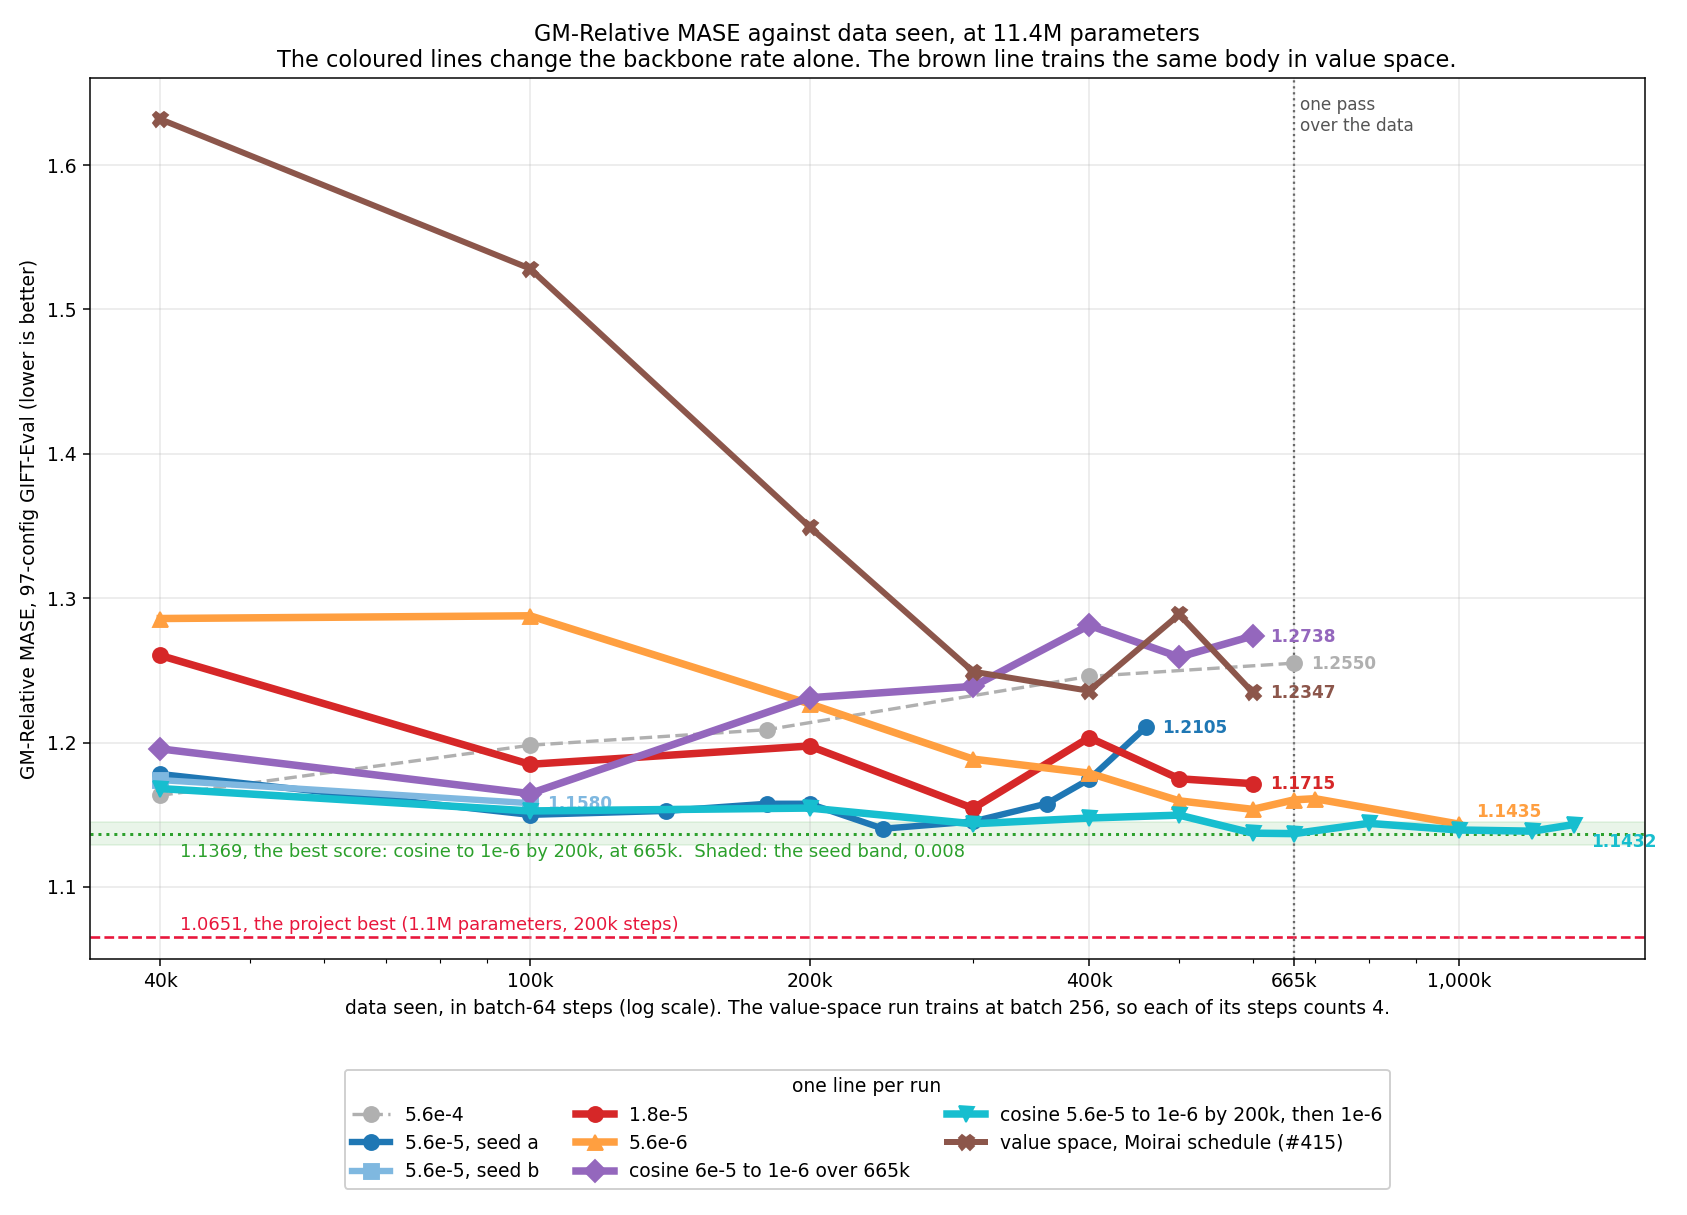
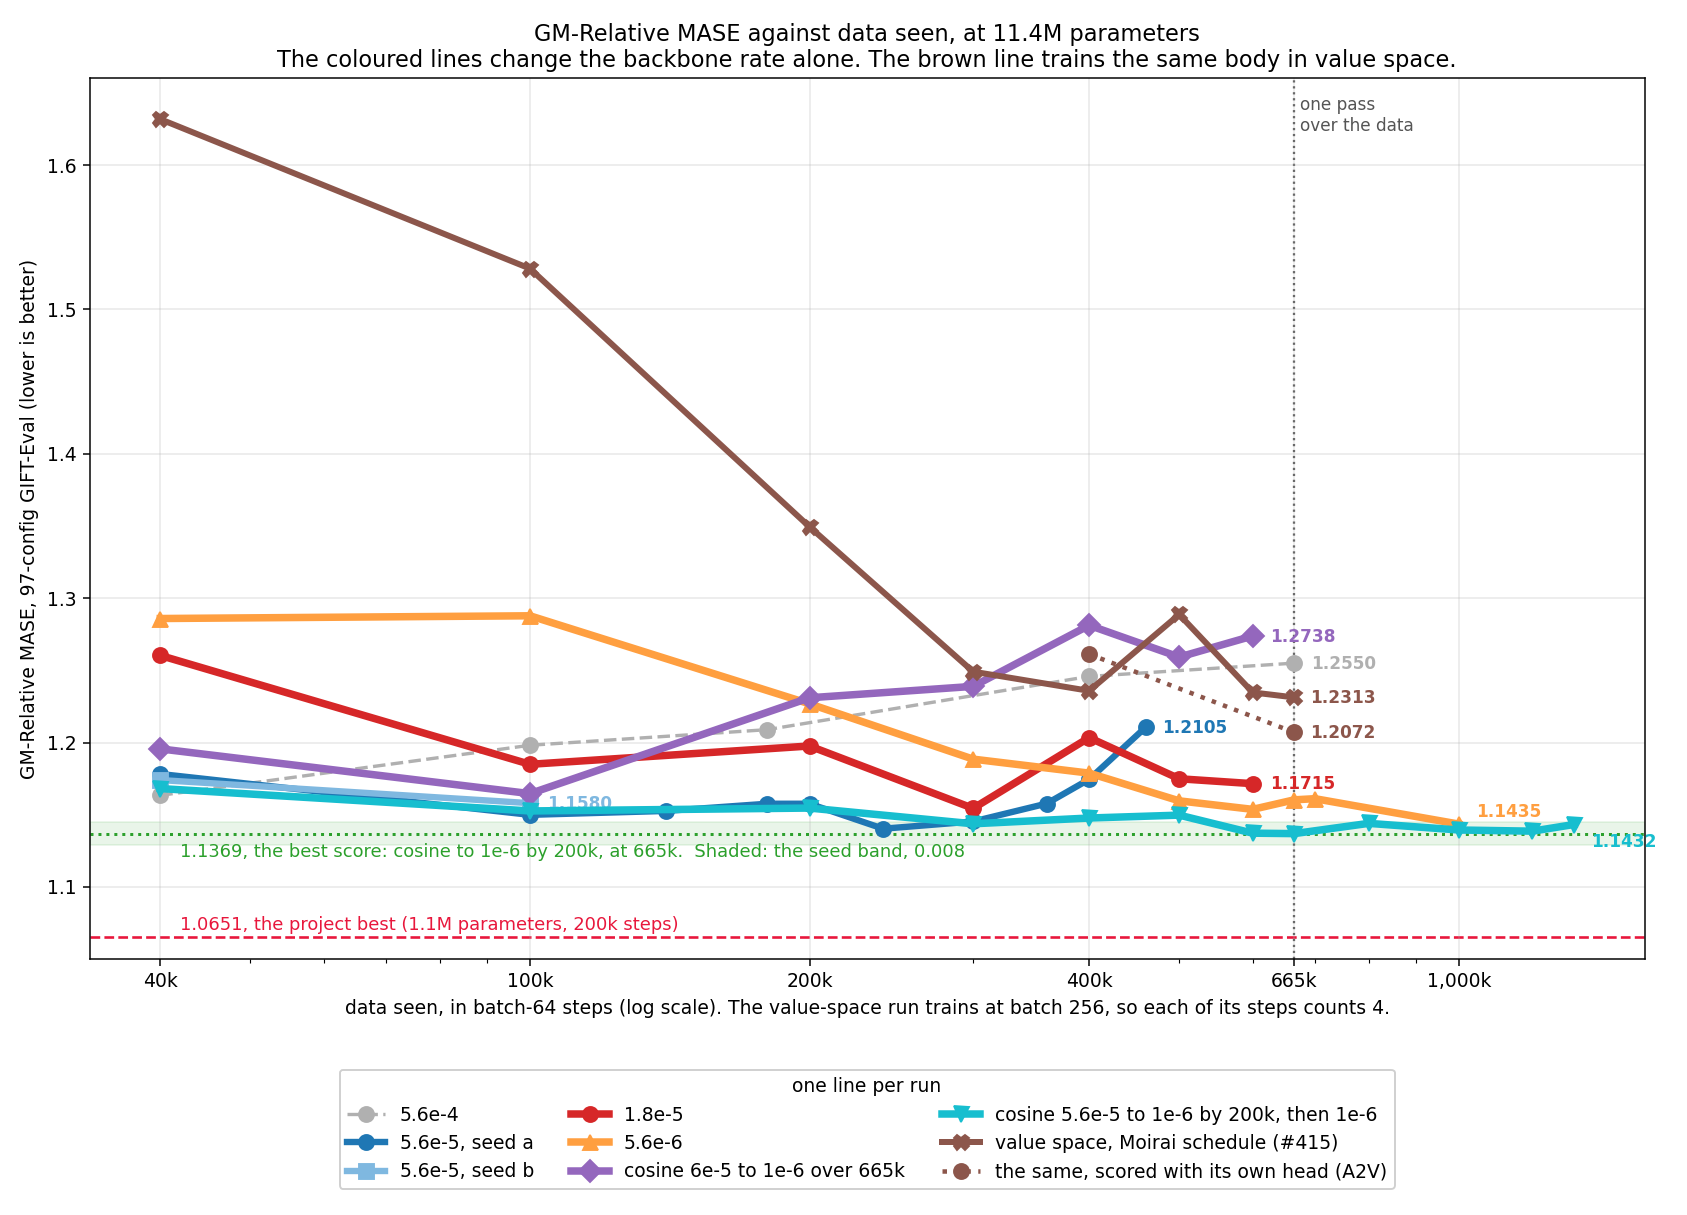
exp(#415): the Moirai-schedule run ends at 1.2313 (B4) and 1.2072 with its own head
Scored with its own value head (A2V), the one-pass model reads 1.2072 at
166k and 1.2612 at 100k. The curves show both scorings, and the radar the
native one.

Changed region(s): [[0.1849, 0.9136, 0.8322, 0.9745], [0.7398, 0.5481, 0.8014, 0.6091]]

diff --git a/reports/2026-09-06_moirai_small_size/scripts/plot_gm_rates.py b/reports/2026-09-06_moirai_small_size/scripts/plot_gm_rates.py
@@ -23,10 +23,11 @@ SERIES = [
     (P + "_cos665k",  "cosine 6e-5 to 1e-6 over 665k", "#9467bd", 4.0, "D", "-"),
     (P + "_cos200k",  "cosine 5.6e-5 to 1e-6 by 200k, then 1e-6", "#17becf", 4.0, "v", "-"),
     ("cf415_moirai",  "value space, Moirai schedule (#415)", "#8c564b", 3.2, "X", "-"),
+    ("cf415_moirai_native", "the same, scored with its own head (A2V)", "#8c564b", 2.4, "o", ":"),
 ]
 # The value-space run trains at batch 256: one of its steps holds the data of
 # four batch-64 steps.
-XSCALE = {"cf415_moirai": 4}
+XSCALE = {"cf415_moirai": 4, "cf415_moirai_native": 4}
 # Where the last score of a line prints, so two lines that end together part.
 END_LABEL_OFFSET = {P + "_lr100x": (9, 4), P + "_cos200k": (9, -12)}
 BEST, BAND, PROJECT_BEST = 1.1369, 0.008, 1.0651

diff --git a/reports/2026-09-06_moirai_small_size/scripts/plot_radar_value.py b/reports/2026-09-06_moirai_small_size/scripts/plot_radar_value.py
@@ -20,7 +20,7 @@ sn = read(SN)
 # The best contrastive run against the value-space reference with the Moirai
 # schedule. The flat-rate run trained without that schedule, so it stays out.
 ARMS = [("cyan665",    "contrastive, cosine to 1e-6 by 200k, 665k   1.1369", "#17becf"),
-        ("moirai150k", "value space, Moirai schedule, 150k at batch 256   1.2347", "#8c564b")]
+        ("moirai_native166k", "value space, Moirai schedule, 166k, its own head   1.2072", "#8c564b")]
 
 per_ds = {}
 for name, _, _ in ARMS:

diff --git a/reports/2026-09-06_moirai_small_size/moirai_small_size.md b/reports/2026-09-06_moirai_small_size/moirai_small_size.md
@@ -7,7 +7,7 @@ over the data. Its rate starts at 5.6e-5 and falls by cosine to 1e-6 at step
 200,000. Each constant rate gives a lowest score and then a climb, and the
 rate sets where that turn falls. The same body, trained in value space with the
 Moirai recipe and its schedule (#415), scores worse than the contrastive model
-at equal data: 1.2358 at 100,000 steps of batch 256, against 1.1477.
+after one pass: 1.2072 with its own value head, against 1.1369.
 
 ## Definitions
 
@@ -73,13 +73,15 @@ no `L_rep` and no `L_align`. It follows the Moirai recipe: batch 256, AdamW at
 of 1.0.
 
 It scores 1.6318 at 10,000 steps, the end of its warmup, 1.5283 at 25,000,
-1.3494 at 50,000, 1.2491 at 75,000, 1.2358 at 100,000, 1.2887 at 125,000 and
-1.2347 at 150,000. At 400,000 steps at batch 64, the data of its 100,000-step
-stop, the contrastive run scored 1.1477. Against the contrastive run at 665,000 steps, the reference
-at 100,000 steps is worse on 24 of the 28 datasets, and better on
-bizitobs_service, saugeen, us_births and car_parts. From 100,000 to 125,000
-steps it gets worse on 25 datasets, most on the M4 sets: m4_weekly by 48%,
-m4_quarterly by 44% and m4_yearly by 36%.
+1.3494 at 50,000, 1.2491 at 75,000, 1.2358 at 100,000, 1.2887 at 125,000,
+1.2347 at 150,000 and 1.2313 at 166,000, the end of one pass. These scores use
+a separate 30,000-step head on the frozen body (B4), as the contrastive runs do.
+
+Scored with its own value head, rolled out in value space the way it trains
+(A2V), the reference reads 1.2612 at 100,000 steps and 1.2072 at 166,000. The
+radar shows that last forecast. Against the contrastive run after one pass, it
+is worse on 24 of the 28 datasets, and better on m_dense, ett1, us_births and
+car_parts.
 
 A first run of the reference used a flat 1e-3 with no warmup and no clip. Its
 loss spiked four times, its best score was 1.2951 at 25,000 steps, and the owner
@@ -111,7 +113,8 @@ counts its steps at batch 256.
 | cosine 6e-5 to 1e-6 over 665,000 | 1.1646 | 100,000 | 1.2738 | 600,000 |
 | cosine 5.6e-5 to 1e-6 by 200,000, then 1e-6 | 1.1369 | 665,000 | 1.1432 | 1,330,000 |
 | value space, flat 1e-3 | 1.2951 | 25,000 | 1.4482 | 90,000 |
-| value space, Moirai schedule | 1.2347 | 150,000 | 1.2347 | 150,000 |
+| value space, Moirai schedule | 1.2313 | 166,000 | 1.2313 | 166,000 |
+| value space, Moirai schedule, its own head | 1.2072 | 166,000 | 1.2072 | 166,000 |
 
 `results/gm_trajectories.tsv` holds every scored stop of the card, one row per
 stop. `scripts/gm_trajectories.py` builds it from the score files.
@@ -139,7 +142,7 @@ no separate recipe for its 0.946 run.
 
 | | Moirai 1.0 Small, GIFT-Eval Pretrain | value space, Moirai schedule (#415) | contrastive, cosine by 200,000 |
 |---|---|---|---|
-| GM-Relative MASE | 0.946 | 1.2347 at 150,000 steps, its best so far | 1.1369 |
+| GM-Relative MASE | 0.946 | 1.2072 with its own head, 1.2313 with a separate head | 1.1369 |
 | parameters | 14M | 11.4M | 11.4M |
 | body | masked encoder, 6 layers | 3 encoder and 3 forecaster layers | the same |
 | patch | 8 to 128, set by the frequency | 16 | 16 |
@@ -150,7 +153,7 @@ no separate recipe for its 0.946 run.
 | rate | 1e-3, 10,000-step warmup, then cosine | 1e-3, 10,000-step warmup, then cosine to 0 | 5.6e-5, cosine to 1e-6 by 200,000 |
 | gradient clip | 1.0 | 1.0 | none |
 | weight decay | 0.1, linear weights only | 0.1, all weights | 0.1, all weights |
-| scoring | its own forecast | a 30,000-step head, strategy B4 | the same |
+| scoring | its own forecast | its own value head (A2V), or a 30,000-step head (B4) | a 30,000-step head, strategy B4 |
 
 Sources: the [Moirai 2.0 paper](https://arxiv.org/abs/2511.11698), the
 [uni2ts pretraining config](https://github.com/SalesforceAIResearch/uni2ts/blob/main/cli/conf/pretrain/default.yaml)
